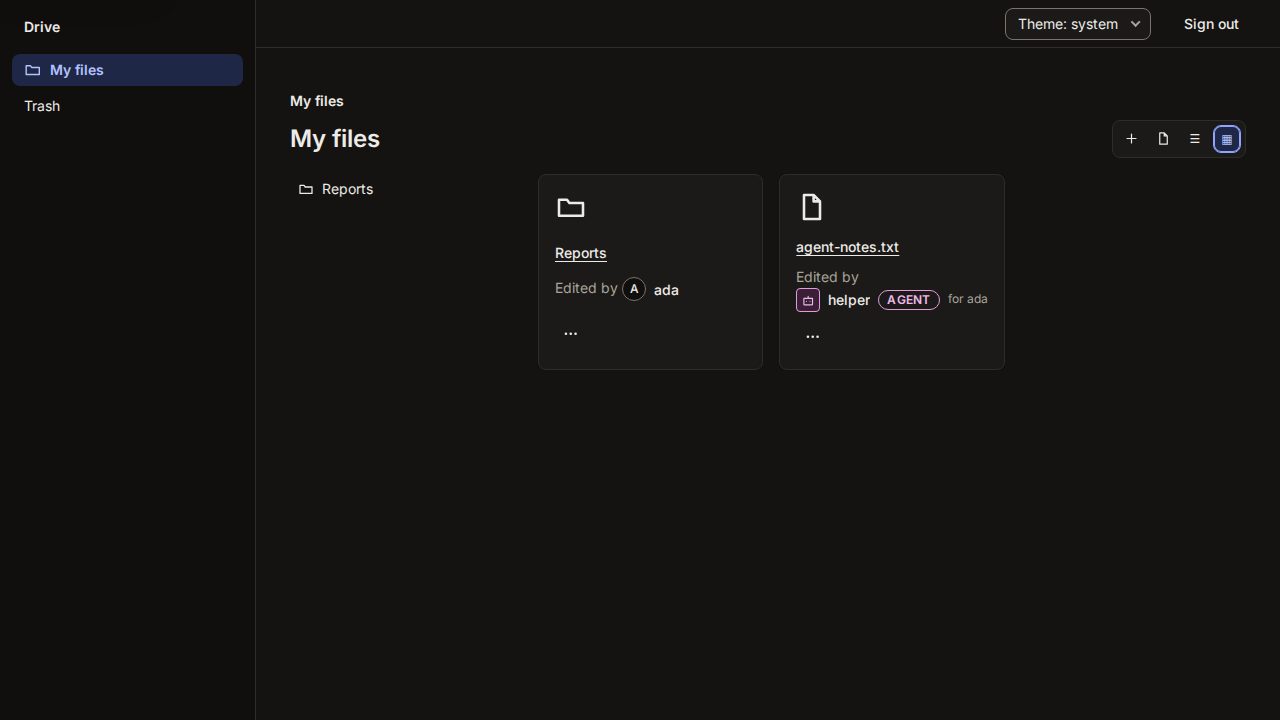
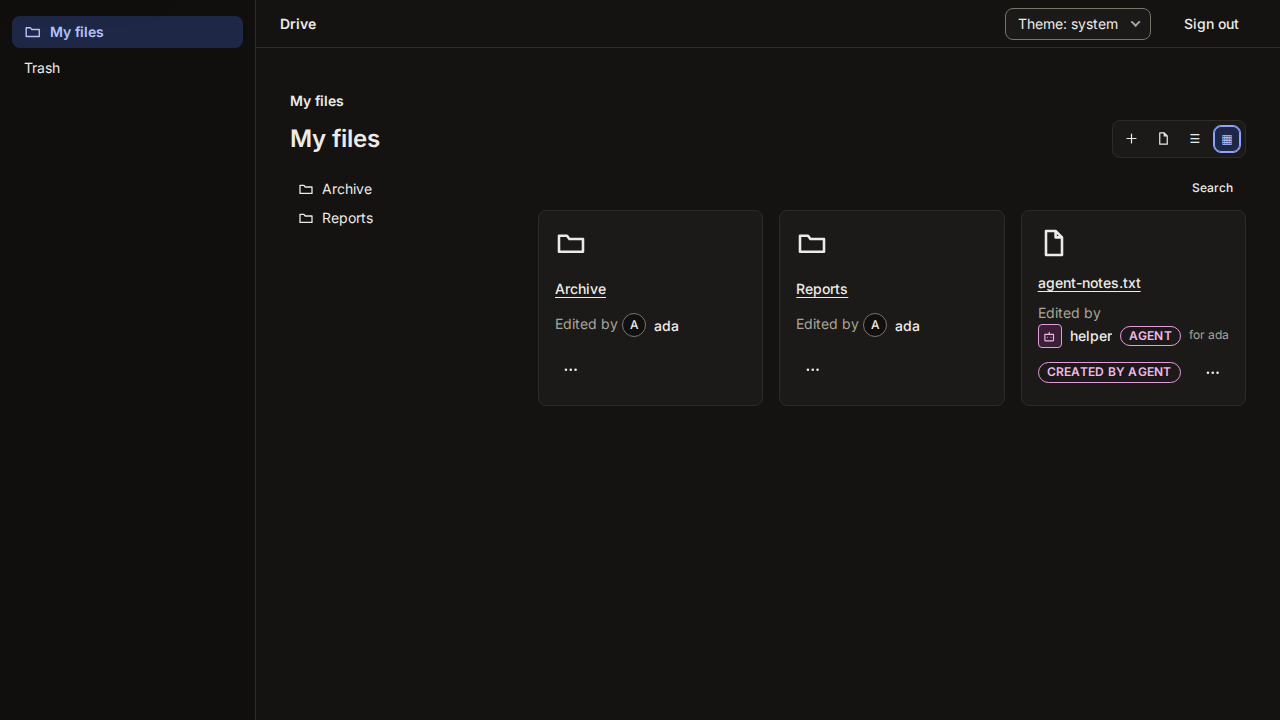
[DRIVE-75] Restyle the web UI as a calm list
Show files in a table with sortable columns, an expandable search,
check boxes with a bottom bar for bulk trash, a no-match empty state,
and a Share button beside the folder title. Bump to 0.9.0.

diff --git a/ui/App.tsx b/ui/App.tsx
@@ -3,6 +3,7 @@ import {
   AppShell, Button, Dialog, DialogClose, EmptyState, FileIcon, FileList, FileRow, FolderIcon, IconButton, Input, Menu, MoreIcon, PlusIcon, PresenceChip,
   Select, ShareDialog, SidebarNav, Toolbar, ToolbarButton, useTheme, useToast, type LinkExpiry, type PresenceEntry, type ShareLink, type ShareRole,
 } from "agentic-design/react";
+import { BulkBar, ExpandableSearch, ItemTable, sortItems, type Sort, type SortKey } from "./browse.js";
 import { createClient, DriveApiError, type DriveClient, type Item, type Role } from "../src/client.js";
 
 const TOKEN_KEY = "agentic-drive-token";
@@ -141,6 +142,9 @@ function Browser({ client, loc, origin }: { client: DriveClient; loc: string; or
   const [dlg, setDlg] = useState<Dlg | null>(null);
   const [drag, setDrag] = useState(false);
   const [busy, setBusy] = useState(false);
+  const [query, setQuery] = useState("");
+  const [sort, setSort] = useState<Sort>({ key: "name", dir: "asc" });
+  const [selected, setSelected] = useState<Set<string>>(new Set());
   const input = useRef<HTMLInputElement>(null);
   const [state, reload] = useLoad(async () => {
     const root = await client.stat("/");
@@ -175,13 +179,27 @@ function Browser({ client, loc, origin }: { client: DriveClient; loc: string; or
     setBusy(false);
   };
   const onDrop = (e: DragEvent) => { e.preventDefault(); setDrag(false); if (e.dataTransfer.files.length) void upload(e.dataTransfer.files); };
+  const onSort = (key: SortKey) => setSort((s) => ({ key, dir: s.key === key && s.dir === "asc" ? "desc" : "asc" }));
+  const trashSelected = async (ids: string[]) => {
+    setBusy(true);
+    const results = await Promise.allSettled(ids.map((id) => client.trash(id)));
+    const failed = results.filter((r) => r.status === "rejected");
+    if (failed.length) toast({ title: `${failed.length} of ${ids.length} items did not move`, description: errorText((failed[0] as PromiseRejectedResult).reason), tone: "danger" });
+    else toast({ title: `Moved ${ids.length} ${ids.length === 1 ? "item" : "items"} to trash`, tone: "success" });
+    setSelected(new Set());
+    setBusy(false);
+    reload();
+  };
   const setViewMode = (v: "list" | "grid") => { localStorage.setItem("agentic-drive-view", v); setView(v); };
 
   return (
     <section onDragOver={(e) => { e.preventDefault(); setDrag(true); }} onDragLeave={(e) => { if (!e.currentTarget.contains(e.relatedTarget as Node | null)) setDrag(false); }} onDrop={onDrop} className={drag ? "drive-drop drive-drop--over" : "drive-drop"} aria-label="Files">
       <Status state={state} retry={reload}>
         {state.status === "ok" && (() => {
-          const { folder, root, crumbs, items, tree } = state.data;
+          const { folder, root, crumbs, tree } = state.data;
+          const needle = query.trim().toLowerCase();
+          const items = sortItems(state.data.items.filter((i) => i.name.toLowerCase().includes(needle)), sort);
+          const picked = items.filter((i) => selected.has(i.id)).map((i) => i.id);
           const actions = (item: Item) => (
             <>
               <MachineLabel item={item} />
@@ -214,7 +232,10 @@ function Browser({ client, loc, origin }: { client: DriveClient; loc: string; or
                 </ol>
               </nav>
               <div className="drive-bar">
-                <h1>{folder.id === root.id ? "My files" : folder.name}</h1>
+                <div className="drive-title">
+                  <h1>{folder.id === root.id ? "My files" : folder.name}</h1>
+                  {folder.id !== root.id && <Button variant="secondary" size="sm" onClick={() => setDlg({ kind: "share", item: folder })}>Share</Button>}
+                </div>
                 <Toolbar label="Folder actions">
                   <ToolbarButton label="New folder" icon={<PlusIcon />} onClick={() => setDlg({ kind: "mkdir" })} />
                   <ToolbarButton label="Upload files" icon={<FileIcon />} onClick={() => input.current?.click()} disabled={busy} />
@@ -226,12 +247,13 @@ function Browser({ client, loc, origin }: { client: DriveClient; loc: string; or
               <div className="drive-split">
               <nav aria-label="Folders" className="drive-folders">{level(root.id)}</nav>
               <div>
-              {items.length === 0 ? (
+              <div className="drive-tools"><ExpandableSearch value={query} onChange={setQuery} /></div>
+              {state.data.items.length === 0 ? (
                 <EmptyState title="This folder is empty" description="Drop files here, or use Upload files." action={<Button onClick={() => input.current?.click()} disabled={busy}>Upload files</Button>} />
+              ) : items.length === 0 ? (
+                <EmptyState title="Nothing matches" description={`No item in this folder has “${query.trim()}” in its name.`} action={<Button onClick={() => setQuery("")}>Clear search</Button>} />
               ) : view === "list" ? (
-                <FileList label={`Items in ${folder.name || "My files"}`}>
-                  {items.map((i) => <FileRow key={i.id} name={i.name} href={href(i)} kind={i.kind === "folder" ? "folder" : "file"} modified={new Date(i.updatedAt)} editedBy={who(i.updatedBy, i.owner)} actions={actions(i)} />)}
-                </FileList>
+                <ItemTable label={`Items in ${folder.name || "My files"}`} items={items} sort={sort} onSort={onSort} selected={selected} onSelect={setSelected} href={href} who={who} actions={actions} />
               ) : (
                 <ul className="drive-grid" aria-label={`Items in ${folder.name || "My files"}`}>
                   {items.map((i) => (
@@ -246,6 +268,7 @@ function Browser({ client, loc, origin }: { client: DriveClient; loc: string; or
               )}
               </div>
               </div>
+              <BulkBar count={picked.length} busy={busy} onTrash={() => void trashSelected(picked)} onClear={() => setSelected(new Set())} />
               {dlg?.kind === "mkdir" && <Prompt open title="New folder" label="Folder name" initial="" submit="Create" onClose={() => setDlg(null)} onSubmit={(name) => act(() => client.mkdir(folder.id === root.id ? `/${name}` : `${folder.id}/${name}`), `Created ${name}`)} />}
               {dlg?.kind === "rename" && <Prompt open title="Rename" label="New name" initial={dlg.item.name} submit="Rename" onClose={() => setDlg(null)} onSubmit={(name) => act(() => client.move(dlg.item.id, dlg.item.parentId, { name }), `Renamed to ${name}`)} />}
               {dlg?.kind === "move" && <MoveDialog client={client} item={dlg.item} onClose={() => setDlg(null)} onMove={(to) => act(() => client.move(dlg.item.id, to), `Moved ${dlg.item.name}`)} />}
@@ -355,6 +378,8 @@ function Sharing({ client, item, origin, onClose }: { client: DriveClient; item:
 function TrashView({ client }: { client: DriveClient }) {
   const toast = useToast();
   const [state, reload] = useLoad(() => client.listTrash());
+  const [sort, setSort] = useState<Sort>({ key: "name", dir: "asc" });
+  const onSort = (key: SortKey) => setSort((s) => ({ key, dir: s.key === key && s.dir === "asc" ? "desc" : "asc" }));
   const restore = async (i: Item) => {
     try { await client.restore(i.id, { onConflict: "rename" }); toast({ title: `Restored ${i.name}`, tone: "success" }); } catch (e) { toast({ title: "Could not restore", description: errorText(e), tone: "danger" }); }
     reload();
@@ -364,9 +389,7 @@ function TrashView({ client }: { client: DriveClient }) {
       <h1>Trash</h1>
       <Status state={state} retry={reload}>
         {state.status === "ok" && (state.data.length === 0 ? <EmptyState title="The trash is empty" description="Items you move to the trash show up here." /> : (
-          <FileList label="Items in the trash">
-            {[...state.data].sort(byName).map((i) => <FileRow key={i.id} name={i.name} href="#/trash" kind={i.kind === "folder" ? "folder" : "file"} modified={new Date(i.trashedAt ?? i.updatedAt)} editedBy={who(i.updatedBy, i.owner)} actions={<><MachineLabel item={i} /><Button size="sm" onClick={() => void restore(i)}>{`Restore ${i.name}`}</Button></>} />)}
-          </FileList>
+          <ItemTable label="Items in the trash" items={sortItems(state.data, sort)} sort={sort} onSort={onSort} href={() => "#/trash"} who={who} actions={(i) => <><MachineLabel item={i} /><Button size="sm" onClick={() => void restore(i)}>{`Restore ${i.name}`}</Button></>} />
         ))}
       </Status>
     </section>
@@ -413,12 +436,14 @@ function SharedView({ client, id, linkToken }: { client: DriveClient; id: string
       <Status state={state} retry={reload}>
         {state.status === "ok" && (
           <>
-            <h1>{state.data.item.name}</h1>
+            <div className="drive-bar">
+              <div className="drive-title"><h1>{state.data.item.name}</h1><MachineLabel item={state.data.item} /></div>
+              {state.data.item.kind !== "folder" && <Button onClick={() => void save()}>Download</Button>}
+            </div>
             <p className="drive-muted">Shared with you.</p>
-            <MachineLabel item={state.data.item} />
             {state.data.item.kind === "folder"
               ? (state.data.items.length === 0 ? <EmptyState title="This folder is empty" /> : <FileList label="Shared items">{state.data.items.map((i) => <FileRow key={i.id} name={i.name} href={`#/s/${i.id}${linkToken ? `/${linkToken}` : ""}`} kind={i.kind === "folder" ? "folder" : "file"} modified={new Date(i.updatedAt)} editedBy={who(i.updatedBy, i.owner)} actions={<MachineLabel item={i} />} />)}</FileList>)
-              : <Button onClick={() => void save()}>Download</Button>}
+              : null}
           </>
         )}
       </Status>

diff --git a/ui/browse.tsx b/ui/browse.tsx
@@ -1,0 +1,116 @@
+import { useEffect, useRef, useState, type ReactNode } from "react";
+import { Button, FileIcon, FolderIcon, PresenceChip, type PresenceEntry } from "agentic-design/react";
+import type { Item } from "../src/client.js";
+
+export type SortKey = "name" | "modified";
+export type Sort = { key: SortKey; dir: "asc" | "desc" };
+
+/** Folders first, then the chosen column. A name sort keeps natural order for numbers. */
+export function sortItems(items: Item[], { key, dir }: Sort): Item[] {
+  const sign = dir === "asc" ? 1 : -1;
+  const by = key === "name" ? (a: Item, b: Item) => a.name.localeCompare(b.name, undefined, { numeric: true }) : (a: Item, b: Item) => a.updatedAt - b.updatedAt;
+  return [...items].sort((a, b) => (a.kind === "folder" ? 0 : 1) - (b.kind === "folder" ? 0 : 1) || sign * by(a, b) || a.name.localeCompare(b.name));
+}
+
+const dateFormat = new Intl.DateTimeFormat(undefined, { dateStyle: "medium", timeStyle: "short" });
+
+/** A search that opens from a button, filters by name, and closes on Escape. */
+export function ExpandableSearch({ value, onChange }: { value: string; onChange: (v: string) => void }) {
+  const [open, setOpen] = useState(false);
+  const input = useRef<HTMLInputElement>(null);
+  useEffect(() => { if (open) input.current?.focus(); }, [open]);
+  const close = () => { onChange(""); setOpen(false); };
+  if (!open && !value) {
+    return <Button variant="ghost" size="sm" aria-expanded="false" onClick={() => setOpen(true)}>Search</Button>;
+  }
+  return (
+    <div className="drive-search" role="search">
+      <input
+        ref={input} type="search" className="drive-search__input" aria-label="Search this folder" placeholder="Search this folder" value={value}
+        onChange={(e) => onChange(e.target.value)} onKeyDown={(e) => { if (e.key === "Escape") close(); }}
+      />
+      <Button variant="ghost" size="sm" onClick={close}>Close search</Button>
+    </div>
+  );
+}
+
+type TableProps = {
+  label: string;
+  items: Item[];
+  sort: Sort;
+  onSort: (key: SortKey) => void;
+  /** Leave out `onSelect` for a table with no select column. */
+  selected?: Set<string>;
+  onSelect?: (ids: Set<string>) => void;
+  href: (i: Item) => string;
+  who: (a: Item["updatedBy"], owner: string) => PresenceEntry;
+  actions: (i: Item) => ReactNode;
+};
+
+/** The list view: a table with a select column, sortable headers, and a row menu. */
+export function ItemTable({ label, items, sort, onSort, selected = new Set(), onSelect, href, who, actions }: TableProps) {
+  const all = items.length > 0 && items.every((i) => selected.has(i.id));
+  const some = !all && items.some((i) => selected.has(i.id));
+  const head = useRef<HTMLInputElement>(null);
+  useEffect(() => { if (head.current) head.current.indeterminate = some; }, [some]);
+  const toggle = (id: string, on: boolean) => {
+    if (!onSelect) return;
+    const next = new Set(selected);
+    if (on) next.add(id); else next.delete(id);
+    onSelect(next);
+  };
+  const th = (key: SortKey, text: string) => (
+    <th scope="col" aria-sort={sort.key === key ? (sort.dir === "asc" ? "ascending" : "descending") : "none"}>
+      <button type="button" className="drive-sort" onClick={() => onSort(key)}>{text}<span aria-hidden="true">{sort.key === key ? (sort.dir === "asc" ? " ↑" : " ↓") : ""}</span></button>
+    </th>
+  );
+  return (
+    <table className="drive-table" aria-label={label}>
+      <thead>
+        <tr>
+          {onSelect && (
+            <th scope="col" className="drive-table__check">
+              <input ref={head} type="checkbox" className="agd-checkbox" aria-label="Select all items" checked={all} onChange={(e) => onSelect(e.target.checked ? new Set(items.map((i) => i.id)) : new Set())} />
+            </th>
+          )}
+          {th("name", "Name")}
+          <th scope="col">Edited by</th>
+          {th("modified", "Modified")}
+          <th scope="col"><span className="drive-sr">Actions</span></th>
+        </tr>
+      </thead>
+      <tbody>
+        {items.map((i) => (
+          <tr key={i.id} className="drive-row" data-selected={selected.has(i.id) || undefined}>
+            {onSelect && (
+              <td className="drive-table__check">
+                <input type="checkbox" className="agd-checkbox" aria-label={`Select ${i.name}`} checked={selected.has(i.id)} onChange={(e) => toggle(i.id, e.target.checked)} />
+              </td>
+            )}
+            <td>
+              <div className="drive-table__name">
+                <span className="drive-table__icon" aria-hidden="true">{i.kind === "folder" ? <FolderIcon /> : <FileIcon />}</span>
+                <a href={href(i)}>{i.name}</a>
+              </div>
+            </td>
+            <td><PresenceChip entry={who(i.updatedBy, i.owner)} /></td>
+            <td><time dateTime={new Date(i.updatedAt).toISOString()}>{dateFormat.format(new Date(i.updatedAt))}</time></td>
+            <td className="drive-table__actions">{actions(i)}</td>
+          </tr>
+        ))}
+      </tbody>
+    </table>
+  );
+}
+
+/** Sticks to the bottom of the page while rows are selected. */
+export function BulkBar({ count, busy, onTrash, onClear }: { count: number; busy: boolean; onTrash: () => void; onClear: () => void }) {
+  if (count === 0) return null;
+  return (
+    <div role="region" aria-label="Selected items" className="drive-bulk">
+      <span role="status">{count} selected</span>
+      <Button variant="danger" size="sm" onClick={onTrash} disabled={busy}>Move to trash</Button>
+      <Button variant="ghost" size="sm" onClick={onClear}>Clear selection</Button>
+    </div>
+  );
+}

diff --git a/ui/app.css b/ui/app.css
@@ -27,3 +27,25 @@
 .drive-card__actions { display: flex; align-items: center; justify-content: space-between; gap: var(--agd-space-2); }
 .drive-root { display: grid; grid-template-columns: 12rem minmax(0, 1fr); gap: var(--agd-space-6); color: var(--agd-color-text); }
 @media (max-width: 48rem) { .drive-root { grid-template-columns: 1fr; } }
+.drive-sr { position: absolute; width: 1px; height: 1px; overflow: hidden; clip-path: inset(50%); white-space: nowrap; }
+.drive-tools { display: flex; justify-content: flex-end; margin-bottom: var(--agd-space-2); }
+.drive-search { display: flex; align-items: center; gap: var(--agd-space-2); }
+.drive-search__input { min-width: 14rem; min-height: 2.25rem; padding: 0 var(--agd-space-3); border: 1px solid var(--agd-color-border); border-radius: var(--agd-radius-md); background: var(--agd-color-surface); color: var(--agd-color-text); font: inherit; }
+.drive-search__input:focus-visible, .drive-sort:focus-visible { outline: 2px solid var(--agd-color-accent); outline-offset: 2px; }
+.drive-table { width: 100%; border-collapse: collapse; }
+.drive-table th { padding: var(--agd-space-2) var(--agd-space-3); text-align: left; font-size: var(--agd-font-size-sm); font-weight: var(--agd-font-weight-medium); color: var(--agd-color-text-muted); border-bottom: 1px solid var(--agd-color-border); }
+.drive-table td { padding: var(--agd-space-2) var(--agd-space-3); border-bottom: 1px solid var(--agd-color-border); vertical-align: middle; }
+.drive-table td:nth-child(4) { color: var(--agd-color-text-muted); white-space: nowrap; }
+.drive-table__check { width: 2.5rem; }
+.drive-table__name { display: flex; align-items: center; gap: var(--agd-space-2); overflow-wrap: anywhere; }
+.drive-table__name a { color: var(--agd-color-text); font-weight: var(--agd-font-weight-medium); text-decoration: none; }
+.drive-table__name a:hover { text-decoration: underline; }
+.drive-table__icon svg { width: 1.25rem; height: 1.25rem; color: var(--agd-color-text-muted); }
+.drive-table__actions > * { vertical-align: middle; }
+.drive-table__actions { text-align: right; white-space: nowrap; }
+.drive-row:hover, .drive-row[data-selected] { background: var(--agd-color-surface-sunken); }
+.drive-sort { all: unset; cursor: pointer; border-radius: var(--agd-radius-sm); }
+.drive-bulk { position: fixed; inset: auto 0 var(--agd-space-4); margin-inline: auto; width: max-content; max-width: calc(100vw - 2rem); display: flex; align-items: center; gap: var(--agd-space-3); padding: var(--agd-space-2) var(--agd-space-4); border: 1px solid var(--agd-color-border); border-radius: var(--agd-radius-md); background: var(--agd-color-surface); box-shadow: 0 4px 16px rgb(0 0 0 / 0.16); z-index: 20; }
+@media (max-width: 40rem) { .drive-table th:nth-child(3), .drive-table td:nth-child(3) { display: none; } }
+.drive-title { display: flex; align-items: center; gap: var(--agd-space-3); flex-wrap: wrap; min-width: 0; }
+.drive-title h1 { margin: 0; }

diff --git a/e2e/drive.spec.ts b/e2e/drive.spec.ts
@@ -19,7 +19,7 @@ async function audit(page: Page, name: string) {
   await page.emulateMedia({ colorScheme: "light" });
 }
 
-const row = (page: Page, name: string) => page.locator(".agd-file-row").filter({ has: page.getByRole("link", { name, exact: true }) });
+const row = (page: Page, name: string) => page.locator(".drive-row").filter({ has: page.getByRole("link", { name, exact: true }) });
 async function pick(page: Page, name: string, action: string) {
   await page.getByRole("button", { name: `Actions for ${name}` }).click();
   await page.getByRole("menuitem", { name: action, exact: true }).click();
@@ -182,4 +182,40 @@ test("an error from the server shows a message and a retry", async ({ page }) =>
   await page.unroute("**/api/v1/drive/**");
   await page.getByRole("button", { name: "Try again" }).click();
   await expect(page.getByRole("region", { name: "Files" })).toBeVisible();
+});
+
+test("a person searches, sorts, and moves many items to the trash at once", async ({ page }) => {
+  const ada = createClient({ baseUrl: `http://127.0.0.1:${process.env.DRIVE_UI_PORT}`, token: ADA });
+  await ada.upload("/zeta.txt", "z", { mime: "text/plain" });
+  await ada.upload("/alpha.txt", "a", { mime: "text/plain" });
+  await page.goto("/");
+  await page.getByLabel("Access token").fill(ADA);
+  await page.getByRole("button", { name: "Sign in" }).click();
+  const names = () => page.locator(".drive-row .drive-table__name a").allTextContents();
+
+  await page.getByRole("button", { name: "Search", exact: true }).click();
+  await page.getByRole("searchbox", { name: "Search this folder" }).fill("zeta");
+  await expect(row(page, "zeta.txt")).toBeVisible();
+  await expect(row(page, "alpha.txt")).toHaveCount(0);
+  await page.getByRole("searchbox", { name: "Search this folder" }).fill("no-such-item");
+  await expect(page.getByText("Nothing matches")).toBeVisible();
+  await audit(page, "12-search-empty");
+  await page.keyboard.press("Escape");
+  await expect(row(page, "alpha.txt")).toBeVisible();
+
+  const files = async () => (await names()).filter((n) => n.endsWith(".txt"));
+  expect((await files()).indexOf("alpha.txt")).toBeLessThan((await files()).indexOf("zeta.txt"));
+  await page.getByRole("button", { name: "Name" }).click();
+  await expect(page.getByRole("columnheader", { name: /Name/ })).toHaveAttribute("aria-sort", "descending");
+  expect((await files()).indexOf("zeta.txt")).toBeLessThan((await files()).indexOf("alpha.txt"));
+
+  await page.getByLabel("Select zeta.txt").check();
+  await page.getByLabel("Select alpha.txt").check();
+  const bar = page.getByRole("region", { name: "Selected items" });
+  await expect(bar).toContainText("2 selected");
+  await audit(page, "13-bulk");
+  await bar.getByRole("button", { name: "Move to trash" }).click();
+  await expect(row(page, "zeta.txt")).toHaveCount(0);
+  await expect(row(page, "alpha.txt")).toHaveCount(0);
+  await expect(bar).toBeHidden();
 });

diff --git a/e2e/embed.spec.ts b/e2e/embed.spec.ts
@@ -44,7 +44,7 @@ test("the package UI mounts in a host page and works against the server", async 
   await openHost(page);
   await page.evaluate((token) => (window as unknown as { start(t: string): void }).start(token), ADA);
   const drive = page.locator("#drive");
-  const files = drive.locator(".agd-file-row");
+  const files = drive.locator(".drive-row");
   await expect(files.getByRole("link", { name: "embed-docs", exact: true })).toBeVisible();
   await expect(drive.getByText("Created by agent", { exact: true }).first()).toBeVisible();
 

diff --git a/CHANGELOG.md b/CHANGELOG.md
@@ -1,5 +1,11 @@
 # Changelog
 
+## 0.9.0
+
+### Changed
+
+- **The web UI has a calm list view.** Files show in a table with sortable Name and Modified columns, a search that opens from a button, and a Share button next to the title of a folder. Select rows with the check boxes to see a bar at the bottom of the page that moves them all to the trash. A search with no match has its own empty state. The design classes in the list view are now `drive-*` classes of the app, not `agd-file-*` classes.
+
 ## 0.8.0
 
 Read the breaking changes before you upgrade.

diff --git a/README.md b/README.md
@@ -7,7 +7,7 @@
 
 Store, sort, and share files and folders.
 
-> Status: 0.8.0, early. The library, CLI, MCP server, and HTTP API work, with sharing in the SDK, the HTTP API, the CLI, and the MCP server.
+> Status: 0.9.0, early. The library, CLI, MCP server, and HTTP API work, with sharing in the SDK, the HTTP API, the CLI, and the MCP server.
 > A small web UI works. See [UI](#ui).
 
 ## Live demo
